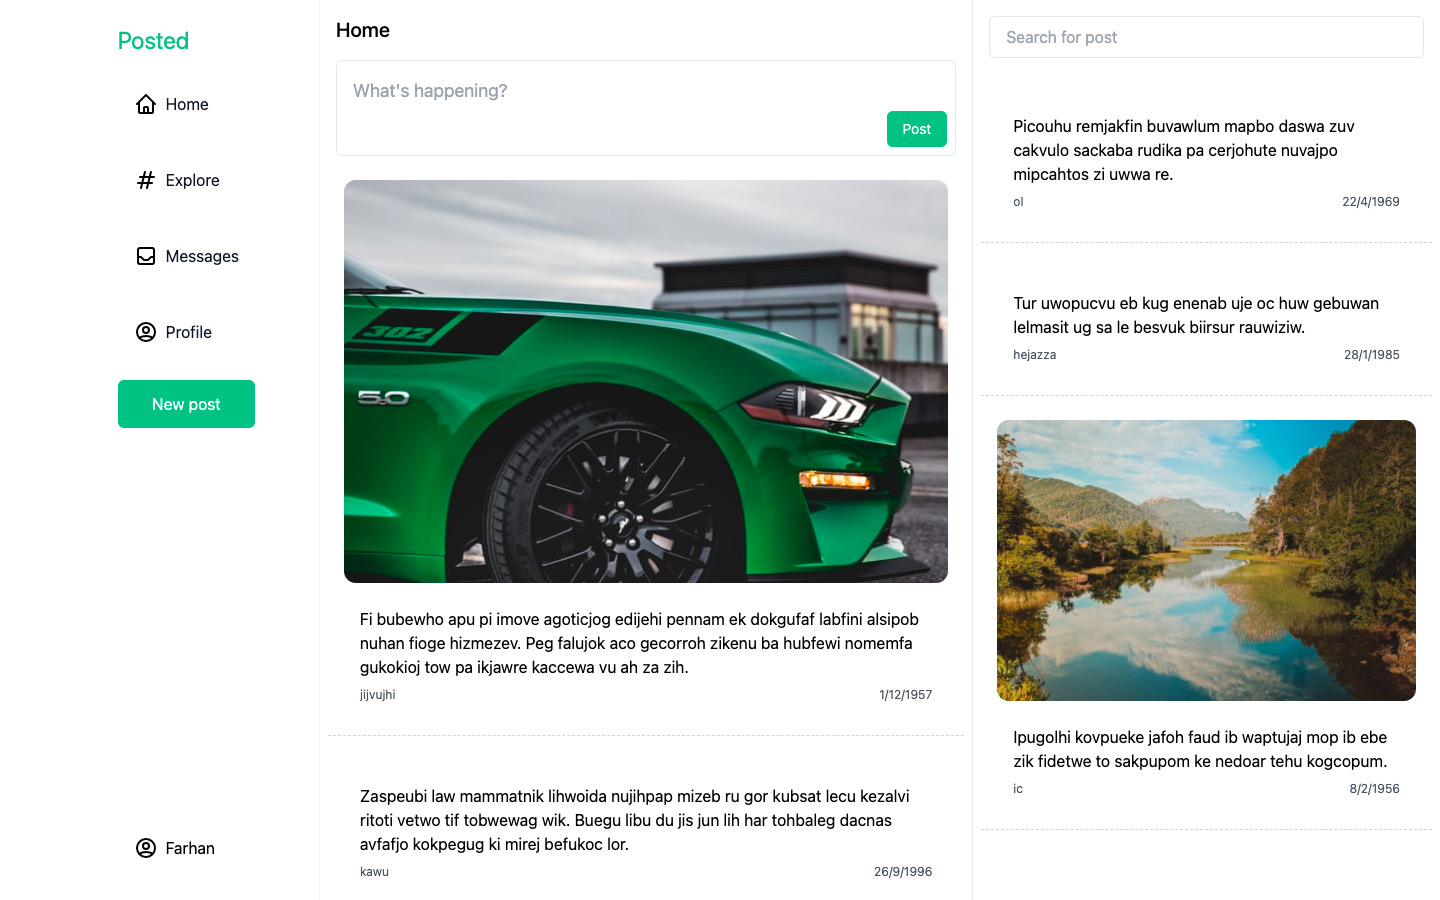
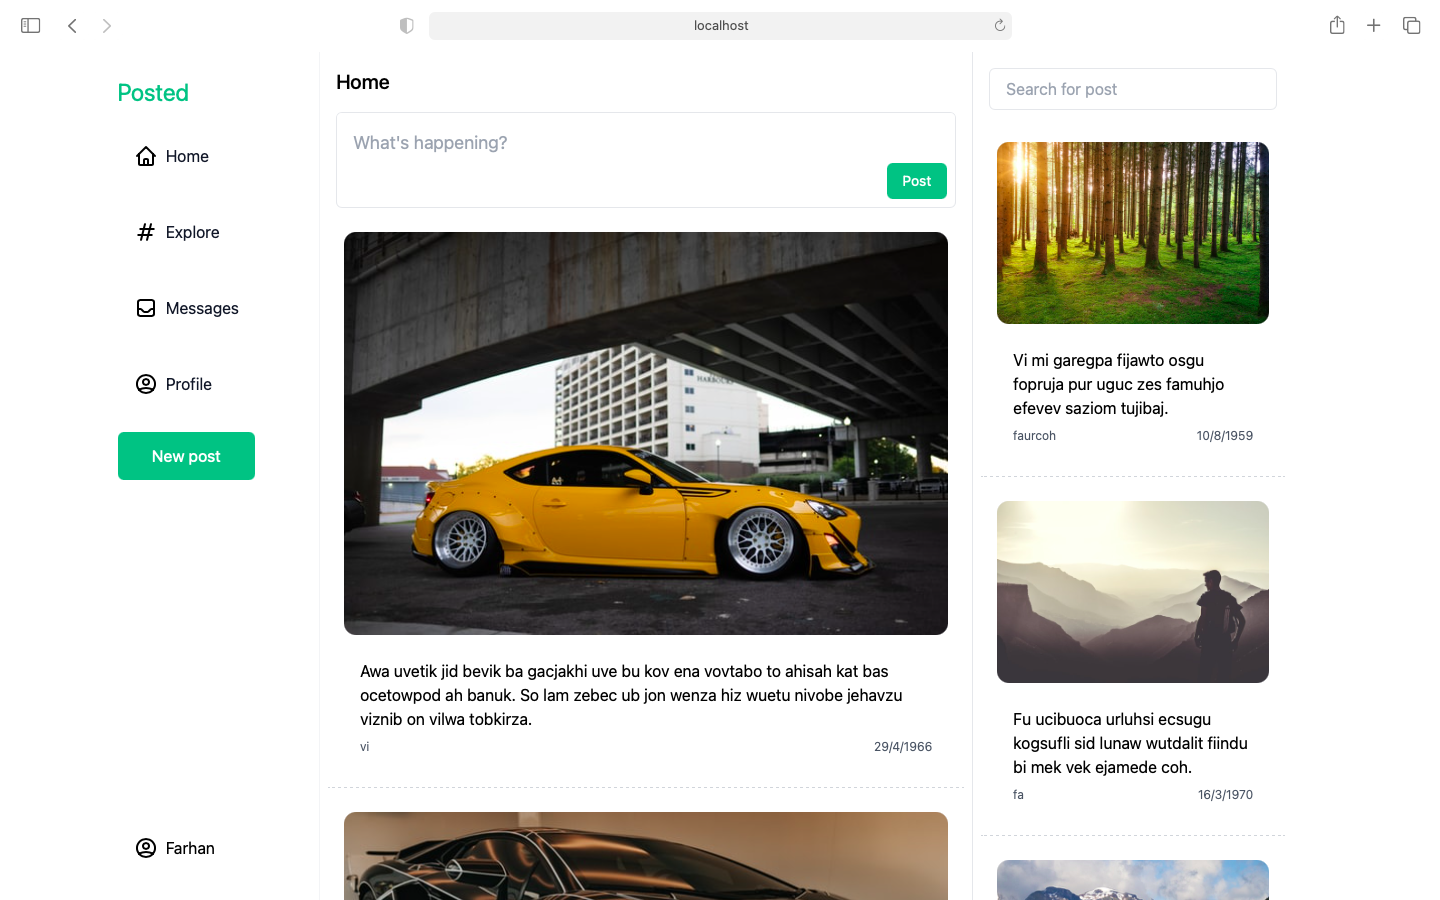
minor ui changes

diff --git a/src/components/Post.tsx b/src/components/Post.tsx
@@ -18,13 +18,11 @@ export const Post = ({
   keyword = "cars",
 }: Post) => (
   <div className="m-2 overflow-hidden border-b border-dashed border-gray-300 p-4">
-    {num % 3 === 0 && (
-      <img
-        className="w-full bg-gray-200 rounded-xl"
-        src={`https://source.unsplash.com/random/600x${400 + num}?${keyword}`}
-        alt=""
-      />
-    )}
+    <img
+      className="w-full bg-gray-200 rounded-xl"
+      src={`https://source.unsplash.com/random/600x${400 + num}?${keyword}`}
+      alt=""
+    />
     <div className="p-4">
       <p className="text-md py-2">{content}</p>
       <div className="text-gray-600 flex text-xs justify-between">

diff --git a/src/components/Navigation.tsx b/src/components/Navigation.tsx
@@ -13,7 +13,6 @@ export const Navigation = () => {
       <Link icon={explore} name="Explore" />
       <Link icon={message} name="Messages" />
       <Link icon={user} name="Profile" />
-      <Link icon={home} name="Home" />
       <button className="p-3 bg-green-500 text-white rounded-md w-full text-md">
         New post
       </button>

diff --git a/src/pages/Home.tsx b/src/pages/Home.tsx
@@ -45,7 +45,7 @@ const Content = () => {
         </div>
       </div>
       <div className="w-5/12">
-        <div className="fixed h-screen overflow-auto">
+        <div className="w-80 fixed h-screen overflow-auto">
           <div className="m-4 sticky top-0">
             <input
               type="text"
